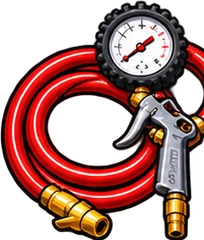
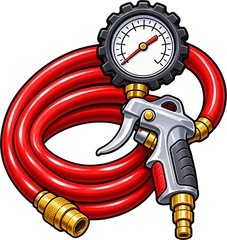
Tire job: final tool art, open to all players (#144)
Claude-Session: https://claude.ai/code/session_01AFKMpnUTsWh7SVsPKKWDr5

diff --git a/index.html b/index.html
@@ -192,7 +192,7 @@ body.one-button #jumpLeft{display:none}body.one-button #pause{grid-area:pause;mi
 .loot-hud span{display:flex;align-items:center;gap:5px}.ico{width:20px;height:20px;flex:none}
 .lvhead{grid-column:1/-1;text-align:left;font-size:12px;font-weight:900;letter-spacing:2px;color:#ffcb43;margin:8px 2px 0}
 .shop{display:none;grid-template-columns:repeat(2,1fr);gap:8px;margin:4px 0 12px;max-height:50dvh;overflow:auto;padding:2px}.shop.on{display:grid}.skin{background:#22323f;border:2px solid #3e5266;border-radius:14px;padding:8px 6px;text-align:center;color:#d4e0e8;font-weight:800;font-size:13px}.skin .tag{display:inline-block;margin-top:4px;background:#e8343e;color:#fff;font-size:10px;font-weight:900;letter-spacing:.5px;padding:2px 7px;border-radius:8px}.skin.eq{border-color:#ffcb43;box-shadow:0 0 0 2px #ffcb4355 inset}.skin img{width:100%;max-width:120px;height:auto;display:block;margin:2px auto 4px}.panel .skin button{min-height:36px;margin:6px 0 0;font-size:13px;padding:0 6px;width:100%}.skin button.own{background:#455b70;color:#fff}.skin button.buy{background:#ffcb43;color:#1a2630}.skin button.no{background:#33424f;color:#8aa0b2}.stage{position:relative}#powHud{position:absolute;left:12px;top:10px;display:flex;gap:6px;z-index:3;pointer-events:none}#powHud .pw{position:relative;width:44px;height:44px;border-radius:50%;background:conic-gradient(#ffcb43 var(--p),#ffffff22 0);display:flex;align-items:center;justify-content:center}#powHud .pw::before{content:"";position:absolute;inset:4px;border-radius:50%;background:#101820e6}#powHud .pw img{position:relative;width:28px;height:28px;object-fit:contain}#powHud .pw b{position:absolute;right:-4px;bottom:-4px;min-width:18px;height:18px;border-radius:9px;background:#ffcb43;color:#1a2630;font:900 11px/18px system-ui;text-align:center;padding:0 3px}#powHud .pw.low{animation:pwblink .4s steps(2) infinite}@keyframes pwblink{50%{opacity:.35}}.shoptabs{grid-column:1/-1;display:flex;gap:6px;position:sticky;top:-2px;z-index:2;background:#263645;padding:2px 0 6px}.panel .shoptabs button{flex:1;min-height:38px;margin:0;font-size:13px;background:#2b3b4a;color:#cfe0ec;border:1px solid #4d6378;box-shadow:none}.panel .shoptabs button.on{background:#ffcb43;color:#1a2630;border-color:#ffcb43}.gempty{grid-column:1/-1;color:#8aa0b2;font-size:13px;padding:8px;text-align:center}.panel .shop button.gclear{grid-column:1/-1;min-height:40px;margin:4px 0;background:#455b70;color:#fff;font-size:13px}.skin.look img{height:58px;width:auto;max-width:100%;object-fit:contain}.skin .lslot{font-size:10px;font-weight:900;letter-spacing:1px;color:#8aa0b2;margin-top:2px}
-</style></head><body><main><header><h1>WHERE'S MY 10MM?!</h1><small>THE GREAT SOCKET ESCAPE • V22.5</small></header><div class="stats"><div>LEVEL<strong id="level">1 / 200</strong></div><div>DISTANCE<strong id="distance">0%</strong></div><div>BEST<strong id="best">1</strong></div></div><div class="loot-hud"><span><img class="ico" src="coin.webp" alt=""> COINS <b id="coinsCount">0</b></span><span><svg class="ico" viewBox="0 0 24 24"><polygon points="12,1.5 15,8.6 22.7,9.3 16.9,14.4 18.6,22 12,18 5.4,22 7.1,14.4 1.3,9.3 9,8.6" fill="#ffcb43" stroke="#b97a08" stroke-width="1.4" stroke-linejoin="round"/></svg> SCORE <b id="scoreCount">0</b></span></div><div class="speed-meter" aria-label="Speed gained by clearing obstacles"><span>SPEED <b id="speedLabel">1.00×</b></span><div class="speed-track"><div id="speedFill"></div></div></div><section class="stage"><div id="powHud"></div><canvas id="scene" width="600" height="610" aria-label="Rolling socket obstacle game"></canvas><p id="tip" aria-live="polite">Tap twice for a double jump. Collect power-ups!</p></section><div class="buttons"><button id="jumpLeft" aria-label="Jump with left hand">JUMP</button><button id="pause" class="secondary">PAUSE</button><button id="restart" class="secondary">RETRY</button><button id="jump" aria-label="Jump with right hand">JUMP</button></div></main><div class="overlay" id="overlay"><div class="panel"><div class="eyebrow" id="eyebrow">THE GREAT SOCKET ESCAPE</div><div class="art" id="menuArt">10mm</div><h2 id="message">WHERE’S MY 10MM?!</h2><p id="details">What if the 10mm socket wasn’t lost… what if it was escaping?</p><div class="opts" id="opts"></div><div class="levels" id="levels"></div><div class="shop" id="shop"></div><button id="go">PLAY ADVENTURE</button><button id="menuExtra" class="sub">HOW TO PLAY</button><button id="menuShop" class="sub">SOCKET SHOP</button><button id="menuLevels" class="sub">LEVEL SELECT</button><button id="menuSettings" class="ghost">SETTINGS</button></div></div><script src="game.js"></script><div id="home" class="hidden"><div class="hbg"></div>
+</style></head><body><main><header><h1>WHERE'S MY 10MM?!</h1><small>THE GREAT SOCKET ESCAPE • V22.6</small></header><div class="stats"><div>LEVEL<strong id="level">1 / 200</strong></div><div>DISTANCE<strong id="distance">0%</strong></div><div>BEST<strong id="best">1</strong></div></div><div class="loot-hud"><span><img class="ico" src="coin.webp" alt=""> COINS <b id="coinsCount">0</b></span><span><svg class="ico" viewBox="0 0 24 24"><polygon points="12,1.5 15,8.6 22.7,9.3 16.9,14.4 18.6,22 12,18 5.4,22 7.1,14.4 1.3,9.3 9,8.6" fill="#ffcb43" stroke="#b97a08" stroke-width="1.4" stroke-linejoin="round"/></svg> SCORE <b id="scoreCount">0</b></span></div><div class="speed-meter" aria-label="Speed gained by clearing obstacles"><span>SPEED <b id="speedLabel">1.00×</b></span><div class="speed-track"><div id="speedFill"></div></div></div><section class="stage"><div id="powHud"></div><canvas id="scene" width="600" height="610" aria-label="Rolling socket obstacle game"></canvas><p id="tip" aria-live="polite">Tap twice for a double jump. Collect power-ups!</p></section><div class="buttons"><button id="jumpLeft" aria-label="Jump with left hand">JUMP</button><button id="pause" class="secondary">PAUSE</button><button id="restart" class="secondary">RETRY</button><button id="jump" aria-label="Jump with right hand">JUMP</button></div></main><div class="overlay" id="overlay"><div class="panel"><div class="eyebrow" id="eyebrow">THE GREAT SOCKET ESCAPE</div><div class="art" id="menuArt">10mm</div><h2 id="message">WHERE’S MY 10MM?!</h2><p id="details">What if the 10mm socket wasn’t lost… what if it was escaping?</p><div class="opts" id="opts"></div><div class="levels" id="levels"></div><div class="shop" id="shop"></div><button id="go">PLAY ADVENTURE</button><button id="menuExtra" class="sub">HOW TO PLAY</button><button id="menuShop" class="sub">SOCKET SHOP</button><button id="menuLevels" class="sub">LEVEL SELECT</button><button id="menuSettings" class="ghost">SETTINGS</button></div></div><script src="game.js"></script><div id="home" class="hidden"><div class="hbg"></div>
 <div class="htitle"><b>WHERE'S MY 10MM?!</b><small>THE GREAT SOCKET ESCAPE</small></div>
 <div class="hstage"><img class="hmag" src="chaser-magnet.webp" alt=""><div class="hposter"><span class="pm">MISSING</span><img src="socket-chrome.webp" alt=""><span class="pempty">GONE!</span><span class="p10">10MM</span></div><img class="hfly" src="socket-chrome.webp" alt=""><img class="hhero" id="hHero" src="socket-chrome.webp" alt=""><img class="hglove" src="chaser-glove.webp" alt=""></div>
 <div class="htap" id="hTap">TAP TO START</div><div id="gift" class="hidden"><div class="gcard"><div class="gl">DAILY GIFT</div><img src="coin.webp" alt=""><div class="ga" id="giftAmt">+10 COINS</div><div class="gd" id="giftDay">DAY 1</div><button id="giftClaim">CLAIM</button></div></div>

diff --git a/service.js b/service.js
@@ -33,9 +33,8 @@
     brake: { name: "FRONT BRAKE JOB", short: "Brake job", needs: ["gloves", "jack", "lugwrench", "ratchet", "piston", "brakes"], secs: 50 },
     tire: { name: "TIRE REPLACEMENT", short: "Tire job", needs: ["valvetool", "beadbreaker", "tirebar", "wirebrush", "lube", "airhose", "weighthammer", "newtire", "weights"], secs: 85 },
   };
-  // the tire job is in tester mode only until its final tool art is in
   const tester = () => localStorage.getItem("tenmm-tester") === "1";
-  const JOB_IDS = () => (tester() ? ["oil", "brake", "tire"] : ["oil", "brake"]);
+  const JOB_IDS = () => ["oil", "brake", "tire"];
 
   const load = () => { try { return JSON.parse(localStorage.getItem("tenmm-garage")) || {}; } catch (e) { return {}; } };
   const G = Object.assign({ bag: [], cart: {}, done: {} }, load());
@@ -92,7 +91,7 @@
   function svcSummary() {
     const r = JOB_IDS().filter(ready);
     if (r.length) return "READY: " + r.map((j) => JOBS[j].short).join(" & ");
-    const j = missing("oil").length ? "oil" : "brake", n = JOBS[j].needs.length;
+    const j = JOB_IDS().find((k) => missing(k).length) || "oil", n = JOBS[j].needs.length;
     return JOBS[j].short + " kit " + (n - missing(j).length) + "/" + n + " • find parts in levels";
   }
   const baseShowHome = showHome;
